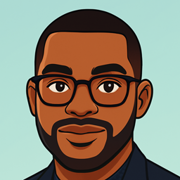
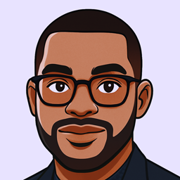
Adopt Electric Violet as the brand accent
Blue was competent and forgettable, and it is the default colour of
almost every developer tool. Teal was considered and rejected: it sits
too close to the channel this series will most often be compared with,
and colour is the cheapest dimension on which to be clearly different.

Two values rather than one. The vivid violet fails contrast as text on
an off-white ground, so a deeper violet carries text and links on light
surfaces while the vivid one owns fills, rules and the dark hero.

The cartoon avatar's mint background is recoloured to match, so the
favicon, site header, thumbnails, banner and videos all agree.

diff --git a/src/styles/global.css b/src/styles/global.css
@@ -15,8 +15,9 @@
   --surface: #ffffff;
   --ink: #12161f;
   --ink-soft: #5a6473;
-  --primary: #2563eb;
-  --primary-soft: #dce7fe;
+  --primary: #5b3ce0;        /* text and links on light: passes contrast */
+  --primary-vivid: #7c5cff;  /* fills, rules, anything on a dark surface */
+  --primary-soft: #e8e3ff;
   --warn: #d93a3a;
   --hairline: #d9dde4;
 
@@ -35,8 +36,9 @@
     --surface: #161a20;
     --ink: #e9edf2;
     --ink-soft: #9aa4b2;
-    --primary: #6b9bff;
-    --primary-soft: #1c2740;
+    --primary: #a996ff;
+    --primary-vivid: #7c5cff;
+    --primary-soft: #241c4a;
     --hairline: #262c35;
   }
 }
@@ -371,8 +373,8 @@ hr {
   position: absolute;
   inset: 0;
   background-image:
-    linear-gradient(rgba(107, 155, 255, 0.07) 1px, transparent 1px),
-    linear-gradient(90deg, rgba(107, 155, 255, 0.07) 1px, transparent 1px);
+    linear-gradient(rgba(124, 92, 255, 0.10) 1px, transparent 1px),
+    linear-gradient(90deg, rgba(124, 92, 255, 0.10) 1px, transparent 1px);
   background-size: 46px 46px;
   mask-image: radial-gradient(ellipse 80% 60% at 50% 0%, #000 40%, transparent 100%);
 }
@@ -391,14 +393,14 @@ hr {
   font-weight: 700;
   letter-spacing: 0.18em;
   text-transform: uppercase;
-  color: #6b9bff;
+  color: #7c5cff;
   margin-bottom: 1.1rem;
 }
 .eyebrow::before {
   content: '';
   width: 28px;
   height: 2px;
-  background: #6b9bff;
+  background: #7c5cff;
 }
 
 .hero h1 {
@@ -408,7 +410,7 @@ hr {
   margin: 0 0 1.1rem;
   color: #fff;
 }
-.hero h1 .accent { color: #6b9bff; }
+.hero h1 .accent { color: #7c5cff; }
 
 .hero p.lede {
   font-size: clamp(1.05rem, 2.2vw, 1.25rem);
@@ -435,10 +437,11 @@ hr {
   transition: transform 0.18s ease, background 0.18s ease, border-color 0.18s ease;
 }
 .btn:hover { transform: translateY(-2px); }
-.btn-primary { background: #2563eb; color: #fff; }
-.btn-primary:hover { background: #1d55d0; }
+/* Violet is dark enough to carry white text, unlike the teal it replaced. */
+.btn-primary { background: #7c5cff; color: #fff; }
+.btn-primary:hover { background: #6b48f5; }
 .btn-ghost { border-color: #39414f; color: #e9edf2; }
-.btn-ghost:hover { border-color: #6b9bff; color: #fff; }
+.btn-ghost:hover { border-color: #7c5cff; color: #fff; }
 
 /* ---------- terminal card in the hero ---------- */
 
@@ -470,7 +473,7 @@ hr {
 .terminal .c-dim { color: #6e7781; }
 .terminal .c-ok  { color: #3fb950; }
 .terminal .c-bad { color: #f85149; }
-.terminal .c-key { color: #79c0ff; }
+.terminal .c-key { color: #a996ff; }
 
 /* ---------- numbered feature cards ---------- */
 
